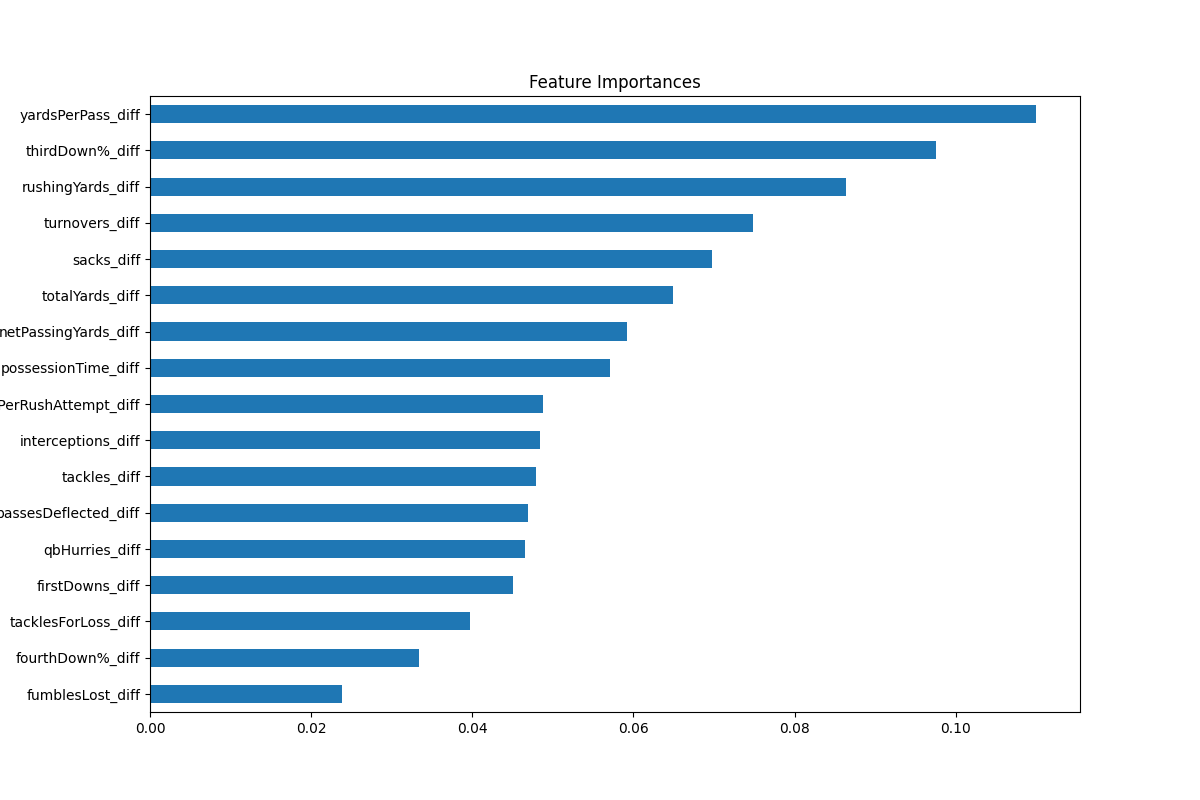
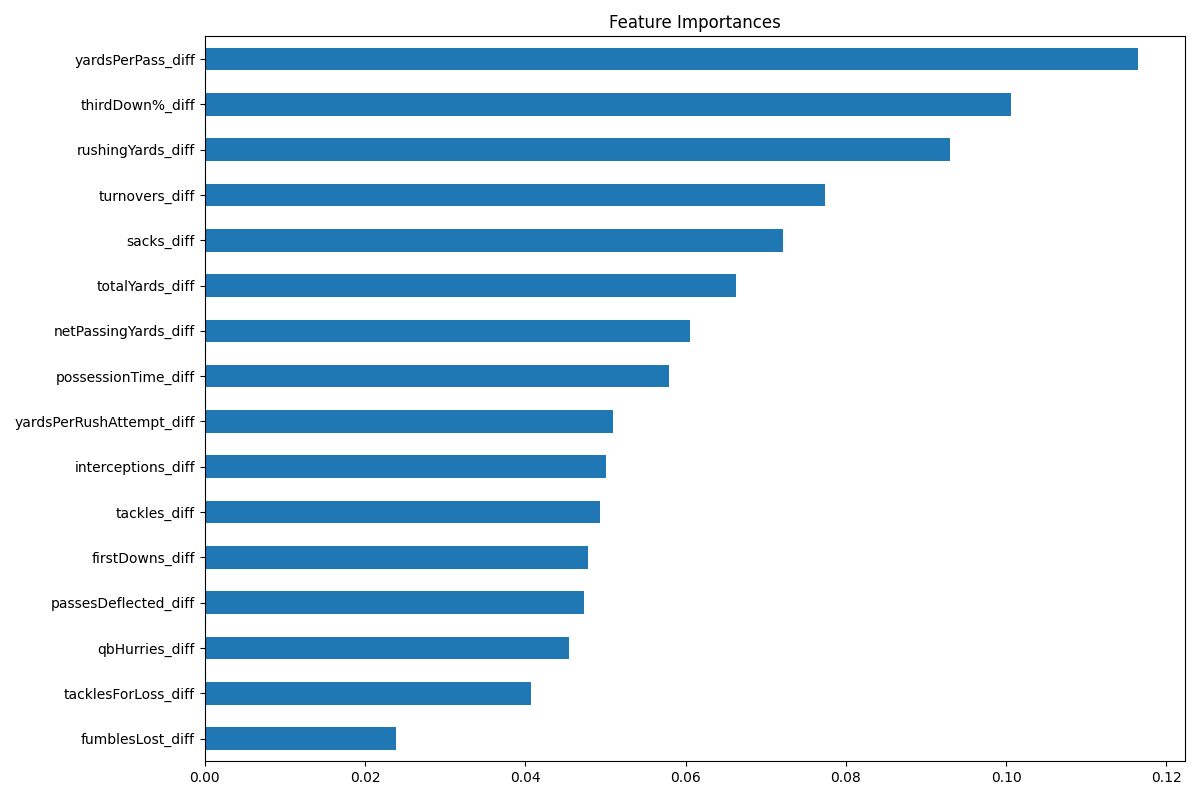
added 4 models

diff --git a/MachineLearning.py b/MachineLearning.py
@@ -8,9 +8,11 @@ from bs4 import BeautifulSoup
 import json
 import time
 import seaborn as sns
-from sklearn.model_selection import train_test_split
-from sklearn.ensemble import RandomForestClassifier
-from sklearn.metrics import accuracy_score
+from sklearn.model_selection import train_test_split, cross_val_score
+from sklearn.metrics import accuracy_score, confusion_matrix, classification_report, roc_auc_score, RocCurveDisplay
+from sklearn.linear_model import LogisticRegression
+from sklearn.ensemble import RandomForestClassifier, GradientBoostingClassifier
+from sklearn.svm import SVC
 
 # SPLITTING DATA INTO TRAIN AND TEST ==========================================
 df = pd.read_csv('/Users/harounshah/Downloads/Senior Thesis/final_data.csv')
@@ -20,21 +22,82 @@ print(f"\nMatrix Dimensions w/ all Features: {df.shape}\n")
 y = df['home_win']
 X = df.filter(like="diff", axis=1) # Taking only the difference features
 
-X_train, X_test, y_train, y_test = train_test_split(X, y, test_size=0.2, random_state=42, stratify=y)
+X_train, X_test, y_train, y_test = train_test_split(X, y, test_size = 0.2, random_state = 42, stratify = y)
+
+# LOGISTIC REGRESSION =========================================================
+
+log_reg = LogisticRegression(max_iter = 5000)
+log_reg.fit(X_train, y_train)
+
+y_pred_lr = log_reg.predict(X_test)
+print("Logistic Regression Accuracy:", accuracy_score(y_test, y_pred_lr))
 
 # RANDOM FOREST ===============================================================
-rf_model = RandomForestClassifier(n_estimators=200, random_state=42)
+rf_model = RandomForestClassifier(n_estimators = 200, random_state = 42)
 
 rf_model.fit(X_train, y_train)
 
-y_pred = rf_model.predict(X_test)
+y_pred_rf = rf_model.predict(X_test)
 
-accuracy = accuracy_score(y_test, y_pred)
+accuracy = accuracy_score(y_test, y_pred_rf)
 print("Random Forest Test Accuracy:", accuracy)
 
-importances = pd.Series(rf_model.feature_importances_, index=X.columns)
-importances.sort_values().plot(kind="barh", figsize=(12,8))
+importances = pd.Series(rf_model.feature_importances_, index = X.columns)
+importances.sort_values().plot(kind = "barh", figsize = (12,8))
 plt.title("Feature Importances")
+plt.tight_layout()
 plt.savefig("Figures/Feature_Importance.png")
 
-# LOGISTIC REGRESSION =========================================================
+# GRADIENT BOOSTING ===========================================================
+gb_model = GradientBoostingClassifier()
+gb_model.fit(X_train, y_train)
+
+y_pred_gb = gb_model.predict(X_test)
+print("Gradient Boosting Accuracy:", accuracy_score(y_test, y_pred_gb))
+
+# SUPPORT VECTOR MACHINE ======================================================
+svm_model = SVC(probability = True)
+svm_model.fit(X_train, y_train)
+
+y_pred_svm = svm_model.predict(X_test)
+print("SVM Accuracy:", accuracy_score(y_test, y_pred_svm), "\n")
+
+# EVALUATION METRICS ==========================================================
+def plot_conf_mat(y_true, y_pred, title):
+    cm = confusion_matrix(y_true, y_pred)
+    sns.heatmap(cm, annot=True, fmt='d', cmap='Blues')
+    plt.xlabel("Predicted")
+    plt.ylabel("Actual")
+    plt.title(title)
+    plt.savefig(f"Figures/{title}")
+    plt.close()
+
+
+plot_conf_mat(y_test, y_pred_rf, "CM_Random Forest")
+plot_conf_mat(y_test, y_pred_lr, "CM_Logistic Regression")
+plot_conf_mat(y_test, y_pred_gb, "CM_Gradient Boosting")
+plot_conf_mat(y_test, y_pred_svm, "CM_SVM")
+
+print("Random Forest Classification Report:")
+print(classification_report(y_test, y_pred_rf), "\n")
+
+scores = cross_val_score(rf_model, X, y, cv=5, scoring='accuracy')
+print("Random Forest CV Mean:", scores.mean())
+print("Random Forest CV Std:", scores.std(), "\n")
+
+models = {
+    "Logistic Regression": log_reg,
+    "Random Forest": rf_model,
+    "Gradient Boosting": gb_model,
+    "SVM": svm_model
+}
+
+for name, model in models.items():
+    probs = model.predict_proba(X_test)[:,1]
+    auc = roc_auc_score(y_test, probs)
+    print(f"{name} AUC: {auc:.3f}")
+    
+    RocCurveDisplay.from_predictions(y_test, probs)
+    plt.title(f"{name} ROC Curve")
+    plt.savefig(f"Figures/ROC_{name}")
+    plt.close()

diff --git a/EDA.py b/EDA.py
@@ -8,6 +8,7 @@ from bs4 import BeautifulSoup
 import json
 import time
 import seaborn as sns
+from sklearn.feature_selection import mutual_info_classif
 
 # SPLITTING DATA INTO X & Y ===================================================
 df = pd.read_csv('/Users/harounshah/Downloads/Senior Thesis/final_data.csv')
@@ -117,4 +118,27 @@ summaries = summaries.T
 summaries.index.name = 'feature'
 summaries.to_csv("5numsums.csv", index = True)
 
+# 
 
+corrs = X.apply(lambda col: col.corr(y))
+corrs = corrs.sort_values(ascending = False)
+# print("Feature–Target Pearson Correlations:")
+# print(corrs)
+
+mi = mutual_info_classif(X, y, discrete_features = False, random_state = 42)
+
+mi_series = pd.Series(mi, index = X.columns)
+mi_series = mi_series.sort_values(ascending = False)
+
+# print("\nMutual Information Scores:")
+# print(mi_series)
+
+results = pd.DataFrame({
+    'Pearson Correlation': corrs,
+    'Mutual Information Score': mi_series
+})
+
+results = results.sort_values(by = 'Pearson Correlation', ascending = False)
+results['Normalized Mutual Information Score'] = results['Mutual Information Score'] / results['Mutual Information Score'].max()
+print("\nFeature Target Correlations:")
+print(results)
